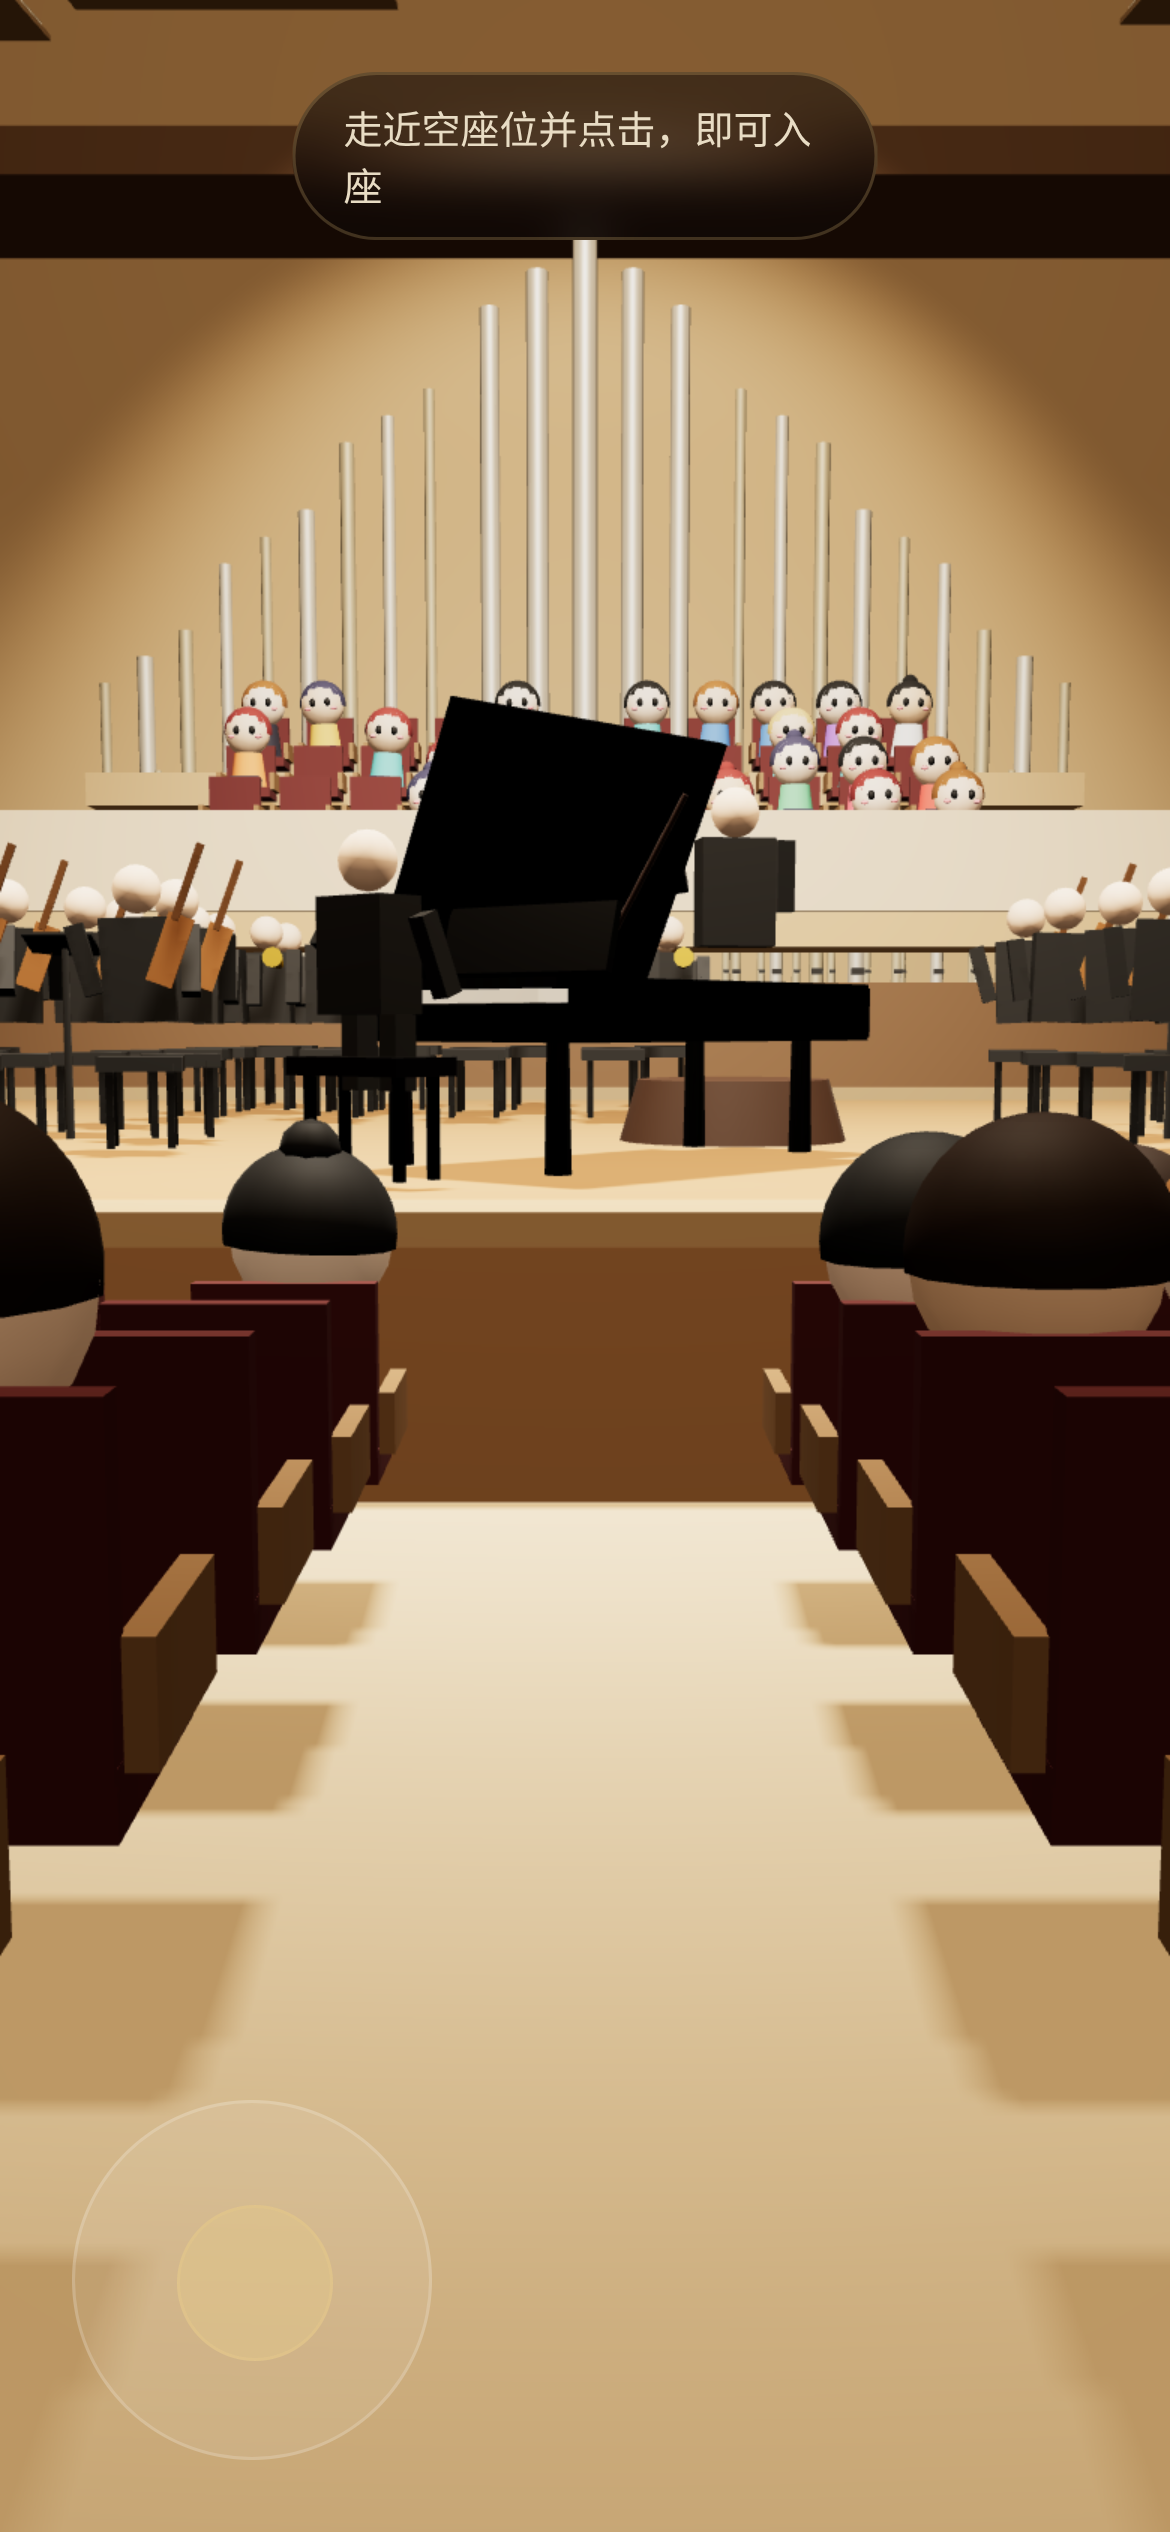
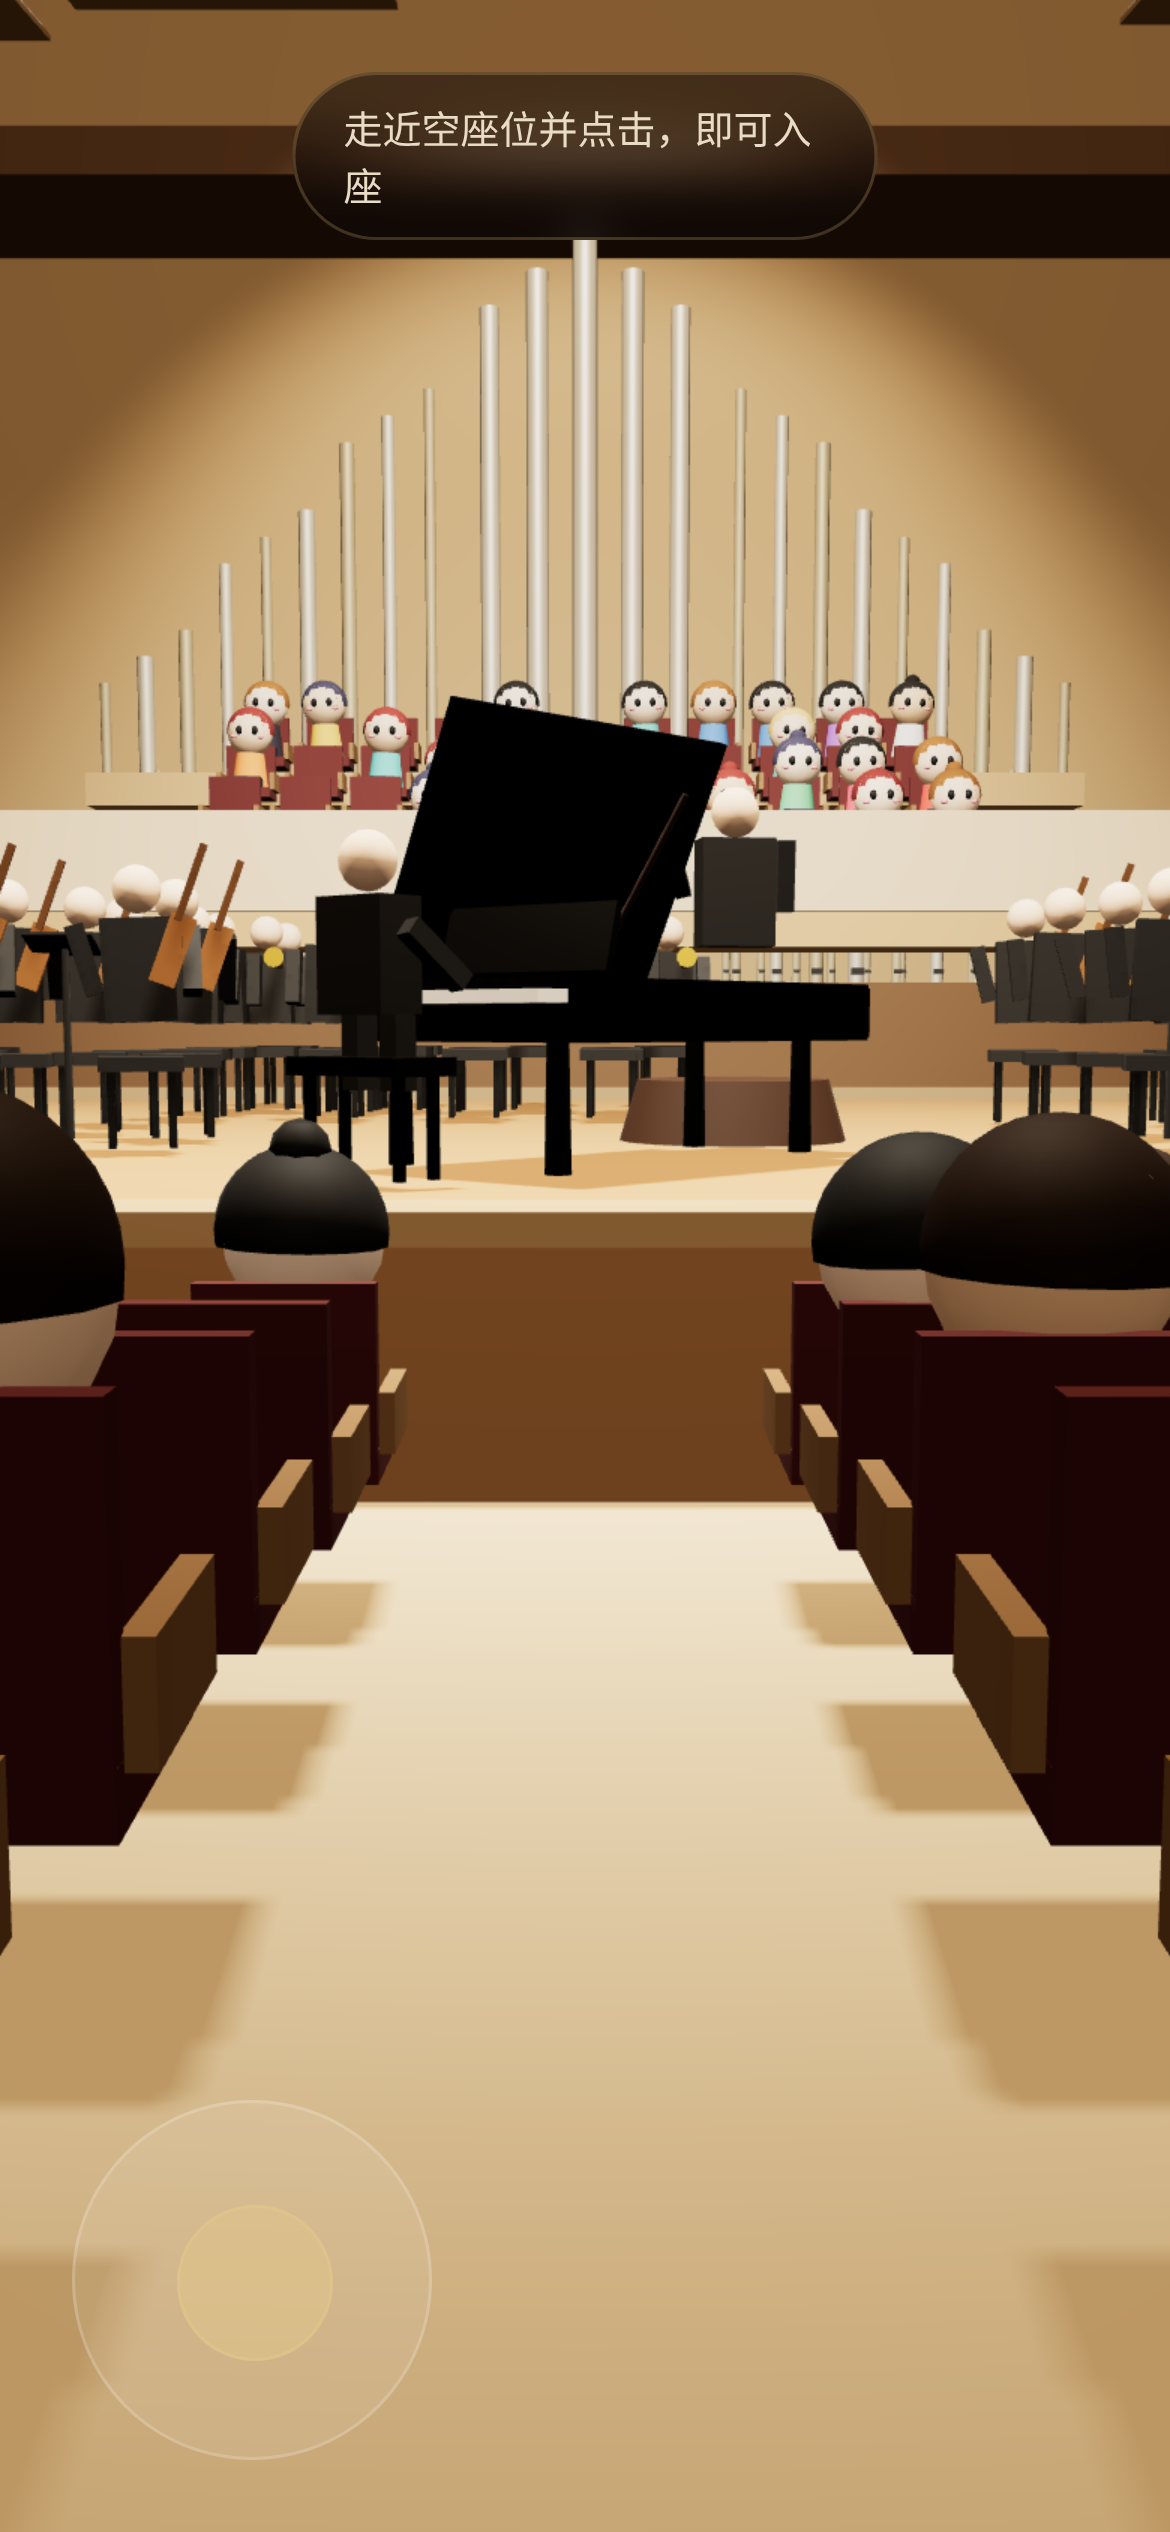
Live wall-clock sync of playlist

diff --git a/js/player.js b/js/player.js
@@ -1,30 +1,61 @@
-// Simple, robust streaming playlist player (HTMLAudioElement). Plays TRACKS in order, loops.
+// "Live" playlist player: everyone hears the same point, derived from wall clock.
+// Streams via HTMLAudioElement (range requests), no UI.
+const EPOCH = Date.UTC(2026, 0, 1);
+
 export function createPlayer(tracks, { onStatus } = {}) {
   const el = new Audio();
   el.preload = 'auto';
   el.setAttribute('playsinline', '');
   el.setAttribute('webkit-playsinline', '');
-  let idx = 0, wantPlay = false;
+  const total = tracks.reduce((a, t) => a + t.duration, 0);
+  let idx = -1, wantPlay = false;
   const status = (s) => onStatus && onStatus(s, tracks[idx]);
-  const setTrack = (i) => { idx = (i + tracks.length) % tracks.length; el.src = tracks[idx].url; };
-  setTrack(0);
-  el.addEventListener('waiting', () => wantPlay && status('loading'));
-  el.addEventListener('playing', () => status('playing'));
-  el.addEventListener('pause', () => !wantPlay && status('paused'));
-  el.addEventListener('ended', () => { setTrack(idx + 1); if (wantPlay) tryPlay(); });
-  el.addEventListener('error', () => { if (wantPlay) { setTrack(idx + 1); tryPlay(); } });
+
+  function livePos() {
+    let pos = (((Date.now() - EPOCH) / 1000) % total + total) % total;
+    for (let i = 0; i < tracks.length; i++) {
+      if (pos < tracks[i].duration) return { i, off: pos };
+      pos -= tracks[i].duration;
+    }
+    return { i: 0, off: 0 };
+  }
+  function seekWhenReady() {
+    const go = () => { const { i, off } = livePos(); if (i === idx) { try { el.currentTime = off; } catch (e) {} } };
+    if (el.readyState >= 1) go(); else el.addEventListener('loadedmetadata', go, { once: true });
+  }
+  function syncTrack() {
+    const { i, off } = livePos();
+    if (i !== idx) { idx = i; el.src = tracks[i].url + '#t=' + off.toFixed(1); el.load(); }
+    seekWhenReady();
+  }
+  syncTrack();
+
+  const fixDrift = () => { const { i, off } = livePos(); if (i === idx && Math.abs(el.currentTime - off) > 2) { try { el.currentTime = off; } catch (e) {} } };
+  el.addEventListener('canplay', fixDrift);
+  el.addEventListener('playing', () => { fixDrift(); status('playing'); });
+  el.addEventListener('ended', () => { syncTrack(); if (wantPlay) tryPlay(); });
+  el.addEventListener('error', () => console.warn('audio error', el.error));
+
   function tryPlay() {
     wantPlay = true;
-    status('loading');
-    const p = el.play(); // must be called synchronously inside the tap handler
-    if (p && p.catch) p.catch((e) => { console.warn('play blocked', e); wantPlay = false; status('blocked'); });
+    const p = el.play(); // synchronous inside the tap handler
+    if (p && p.catch) p.catch((e) => { console.warn('play blocked', e); status('blocked'); });
+    seekWhenReady();
   }
+  // Drift correction every 30s
+  setInterval(() => {
+    if (!wantPlay || el.paused) return;
+    const { i, off } = livePos();
+    if (i !== idx) { syncTrack(); tryPlay(); }
+    else if (Math.abs(el.currentTime - off) > 2) el.currentTime = off;
+  }, 30000);
+
   return {
     play: tryPlay,
     pause() { wantPlay = false; el.pause(); },
-    toggle() { if (wantPlay && !el.paused) { this.pause(); return false; } tryPlay(); return true; },
     isPlaying: () => wantPlay && !el.paused,
     setVolume: (v) => { el.volume = Math.max(0, Math.min(1, v)); },
+    livePos,
     el,
   };
 }

diff --git a/js/main.js b/js/main.js
@@ -1,10 +1,10 @@
 import * as THREE from 'three';
-import { buildHall, addCurtains } from './hall.js?v=3';
-import { buildOrchestra } from './orchestra.js?v=3';
-import { buildSeats, setSeatHover, setSeatOccupied, getSeatCameraPose } from './seats.js?v=3';
-import { buildAudience } from './audience.js?v=3';
-import { createPlayer } from './player.js?v=3';
-import { createControls } from './controls.js?v=3';
+import { buildHall, addCurtains } from './hall.js?v=4';
+import { buildOrchestra } from './orchestra.js?v=4';
+import { buildSeats, setSeatHover, setSeatOccupied, getSeatCameraPose } from './seats.js?v=4';
+import { buildAudience } from './audience.js?v=4';
+import { createPlayer } from './player.js?v=4';
+import { createControls } from './controls.js?v=4';
 
 const canvas = document.getElementById('c');
 const entry = document.getElementById('entry');
@@ -47,10 +47,10 @@ const controls = createControls(camera, canvas, {
 
 // ===== 曲目单（由主人决定，观众只听）：按顺序播放，播完循环。改这里即可 =====
 const TRACKS = [
-  { title: '拉赫玛尼诺夫《第二钢琴协奏曲》第一乐章', url: 'assets/audio/rachmaninoff-pc2-i.mp3' },
-  { title: '柴可夫斯基《第一钢琴协奏曲》第一乐章', url: 'assets/audio/tchaikovsky-pc1-i.mp3' },
-  { title: '贝多芬《第五交响曲·命运》第一乐章', url: 'assets/audio/beethoven-sym5-i.mp3' },
-  { title: '德沃夏克《第九交响曲·自新大陆》第四乐章', url: 'assets/audio/dvorak-sym9-iv.mp3' },
+  { title: '拉赫玛尼诺夫《第二钢琴协奏曲》第一乐章', url: 'assets/audio/rachmaninoff-pc2-i.mp3', duration: 300.024 },
+  { title: '柴可夫斯基《第一钢琴协奏曲》第一乐章', url: 'assets/audio/tchaikovsky-pc1-i.mp3', duration: 300.042 },
+  { title: '贝多芬《第五交响曲·命运》第一乐章', url: 'assets/audio/beethoven-sym5-i.mp3', duration: 300.024 },
+  { title: '德沃夏克《第九交响曲·自新大陆》第四乐章', url: 'assets/audio/dvorak-sym9-iv.mp3', duration: 300.024 },
 ];
 const audio = createPlayer(TRACKS, {
   onStatus(s) {

diff --git a/index.html b/index.html
@@ -5,7 +5,7 @@
   <meta charset="UTF-8" />
   <meta name="viewport" content="width=device-width, initial-scale=1.0, maximum-scale=1.0, user-scalable=no" />
   <title>沉浸式音乐厅 · Immersive Concert Hall</title>
-  <link rel="stylesheet" href="styles.css?v=3" />
+  <link rel="stylesheet" href="styles.css?v=4" />
   <script type="importmap">
   {
     "imports": {
@@ -50,6 +50,6 @@
 
   <canvas id="c"></canvas>
 
-  <script type="module" src="js/main.js?v=3"></script>
+  <script type="module" src="js/main.js?v=4"></script>
 </body>
 </html>

diff --git a/README.md b/README.md
@@ -25,7 +25,7 @@ python3 -m http.server 8765
 - 音乐用 HTMLAudioElement 流式播放（边下边播，兼容 iOS/微信）。
 
 ## 改曲目单
-编辑 `js/main.js` 里的 `TRACKS` 数组（title + url），把 mp3 放进 `assets/audio/`。按数组顺序播放，播完循环；观众不能切歌，也没有任何播放按钮：点「进入」即自动开始。改完把 index.html / main.js 里的 `?v=3` 加一，防手机缓存。
+编辑 `js/main.js` 里的 `TRACKS` 数组（title + url + duration 秒，用 ffprobe 量），把 mp3 放进 `assets/audio/`。按数组顺序播放，播完循环；观众不能切歌，也没有任何播放按钮：点「进入」即自动开始。改完把 index.html / main.js 里的 `?v=N` 加一，防手机缓存。
 
 ## 截图
 
